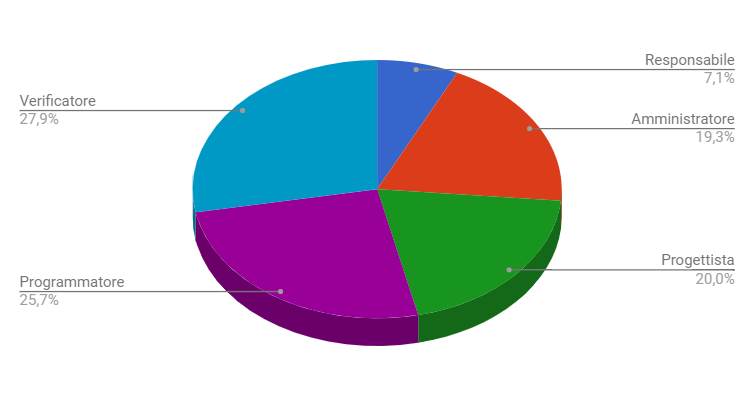
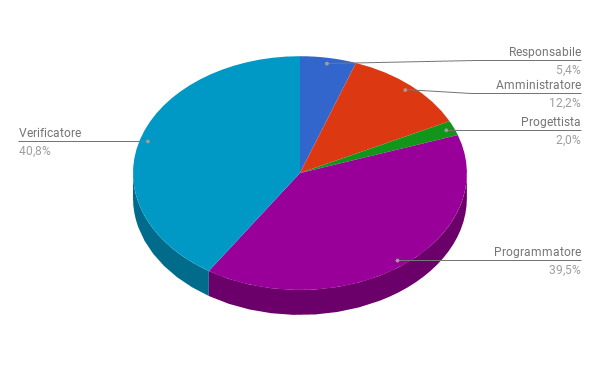
fine consuntivo/preventivo a finire

Changed region(s): [[0.0, 0.1186, 0.99, 0.8598], [0.36, 0.8005, 0.39, 0.8302]]

diff --git a/Esterni/PianoDiProgetto/Preventivo.tex b/Esterni/PianoDiProgetto/Preventivo.tex
@@ -112,13 +112,13 @@ Nel periodo di Analisi la distribuzione delle ore tra i differenti ruoli è la s
 				>{\centering\arraybackslash}m{0.25\linewidth}  }
 			\tableHeaderStyle
 			\textbf{Ruolo} & \textbf{Ore} & \textbf{Costo in \euro} \\
-			\resp & 5 & 120,00 \\
+			\resp & 5 & 150,00 \\
 			\amme & 9 & 180,00 \\
 			\alista & 16 & 400,00 \\
 			\proga &  &  \\
 			\progre &  &  \\
 			\vere & 19 & 285,00 \\
-			\textbf{Totale} & \textbf{49} & \textbf{985,00} \\
+			\textbf{Totale} & \textbf{49} & \textbf{1015,00} \\
 		\end{tabu}
 		\caption{Prospetto economico del periodo di Consolidamento dei requisiti}
 		\vspace{-1em}
@@ -202,12 +202,12 @@ Nel periodo di Progettazione di dettaglio e codifica la distribuzione oraria è 
 			}
 			\tableHeaderStyle			
 			\textbf{Nome} & \textbf{Re} & \textbf{Ad} & \textbf{An} & \textbf{Pj} & \textbf{Pr} & \textbf{Ve} & \textbf{Totale} \\
-			\Davide 	&  &  &  & 17 & 20 & 15 & 52 \\
+			\Davide 	&  & 5 &  & 17 & 20 & 10 & 52 \\
 			\Elena 		&  &  & 4 & 18 & 20 & 10 & 52 \\
 			\Gianluca 	&  & 8 &  & 16 & 18 & 10 & 52 \\
 			\Mirco		& 8 &  &  & 16 & 18 & 10 & 52 \\
 			\Parwinder	&  &  &  & 24 & 18 & 10 & 52 \\
-			\Riccardo 	&  &  & 5 & 16 & 20 & 11 & 52 \\
+			\Riccardo 	&  &  & 5 & 16 & 21 & 10 & 52 \\
 			\Valentina	& 3 & 2 &  & 27 & 20 &  & 52 \\
 		\end{tabu}
 		\caption{Distribuzione oraria del periodo di Progettazione in dettaglio e codifica}
@@ -229,12 +229,12 @@ Nel periodo di Progettazione di dettaglio e codifica la distribuzione delle ore 
 			\tableHeaderStyle
 			\textbf{Ruolo} & \textbf{Ore} & \textbf{Costo in \euro} \\
 			\resp & 11 & 330,00 \\
-			\amme & 10 & 200,00 \\
+			\amme & 15 & 300,00 \\
 			\alista & 9 & 225,00 \\
 			\proga & 134 & 2.948,00 \\
-			\progre & 134 & 2.010,00 \\
-			\vere & 66 & 990,00 \\
-			\textbf{Totale} & \textbf{364} & \textbf{6.703,00} \\
+			\progre & 135 & 2.025,00 \\
+			\vere & 60 & 900,00 \\
+			\textbf{Totale} & \textbf{364} & \textbf{6.728,00} \\
 		\end{tabu}
 		\caption{Prospetto economico del periodo di Progettazione di dettaglio e codifica}
 		\vspace{-1em}
@@ -260,13 +260,13 @@ Nel periodo di \citGloss{validazione} e collaudo la distribuzione oraria è la s
 			}
 			\tableHeaderStyle			
 			\textbf{Nome} & \textbf{Re} & \textbf{Ad} & \textbf{An} & \textbf{Pj} & \textbf{Pr} & \textbf{Ve} & \textbf{Totale} \\
-			\Davide 	&  &  &  & 8 & 6 & 6 & 20 \\
-			\Elena 		&  & 8 &  &  & 6 & 6 & 20 \\
-			\Gianluca 	& 10 &  &  & 6 & 4 &  & 20 \\
-			\Mirco		&  & 8 &  &  & 4 & 8 & 20 \\
-			\Parwinder	&  & 7 &  &  & 4 & 9 & 20 \\
-			\Riccardo 	&  &  &  & 8 & 6 & 6 & 20 \\
-			\Valentina	&  & 4 &  & 6 & 6 & 4 & 20 \\
+			\Davide 	&  &  &  &  & 10 & 11 & 21 \\
+			\Elena 		&  & 8 &  &  & 6 & 7 & 21 \\
+			\Gianluca 	& 8 &  &  & 3 & 6 & 4 & 21 \\
+			\Mirco		&  & 5 &  &  & 8 & 8 & 21 \\
+			\Parwinder	&  & 5 &  &  & 8 & 8 & 21 \\
+			\Riccardo 	&  &  &  &  & 10 & 11 & 21 \\
+			\Valentina	&  &  &  &  & 10 & 11 & 21 \\
 		\end{tabu}
 		\caption{Distribuzione oraria del periodo di Validazione e collaudo}
 		\vspace{-1em}
@@ -286,13 +286,13 @@ Nel periodo di \citGloss{validazione} e collaudo la distribuzione delle ore tra 
 				>{\centering\arraybackslash}m{0.25\linewidth}  }
 			\tableHeaderStyle
 			\textbf{Ruolo} & \textbf{Ore} & \textbf{Costo in \euro} \\
-			\resp & 10 & 300,00 \\
-			\amme & 27 & 540,00 \\
+			\resp & 8 & 240,00 \\
+			\amme & 18 & 360,00 \\
 			\alista &  &  \\
-			\proga & 28 & 616,00 \\
-			\progre & 36 & 540,00 \\
-			\vere & 39 & 585,00 \\
-			\textbf{Totale} & \textbf{140} & \textbf{2.581,00} \\
+			\proga & 3 & 66,00 \\
+			\progre & 58 & 870,00 \\
+			\vere & 60 & 900,00 \\
+			\textbf{Totale} & \textbf{147} & \textbf{2.436,00} \\
 		\end{tabu}
 		\caption{Prospetto economico del periodo di Validazione e collaudo}
 		\vspace{-1em}
@@ -318,13 +318,13 @@ Di seguito sono riportate il totale delle sole ore rendicontate nel preventivo a
 			}
 			\tableHeaderStyle			
 			\textbf{Nome} & \textbf{Re} & \textbf{Ad} & \textbf{An} & \textbf{Pj} & \textbf{Pr} & \textbf{Ve} & \textbf{Totale} \\
-			\Davide 	& 8 &  & 10 & 25 & 32 & 27 & 102 \\
-			\Elena 		&  & 8 & 4 & 32 & 32 & 26 & 102 \\
-			\Gianluca 	& 10 & 13 &  & 22 & 32 & 25 & 102 \\
-			\Mirco		& 8 & 8 &  & 28 & 32 & 26 & 102 \\
-			\Parwinder	&  & 7 &  & 30 & 32 & 33 & 102 \\
-			\Riccardo 	& 5 &  & 4 & 33 & 32 & 28 & 102 \\
-			\Valentina	& 5 & 9 & 10 & 33 & 32 & 13 & 102 \\
+			\Davide 	& 8 & 5 & 10 & 17 & 36 & 27 & 103 \\
+			\Elena 		&  & 8 & 4 & 32 & 32 & 27 & 103 \\
+			\Gianluca 	& 8 & 13 &  & 19 & 34 & 29 & 103 \\
+			\Mirco		& 8 & 5 &  & 28 & 36 & 26 & 103 \\
+			\Parwinder	&  & 5 &  & 30 & 36 & 32 & 103 \\
+			\Riccardo 	& 5 &  & 5 & 25 & 37 & 31 & 103 \\
+			\Valentina	& 3 & 7 & 10 & 27 & 36 & 20 & 103 \\
 		\end{tabu}
 		\caption{Distribuzione oraria totale delle ore rendicontate}
 		\vspace{-1em}
@@ -344,13 +344,13 @@ Di seguite è riportato il totale delle ore dei diversi ruoli del progetto conta
 				>{\centering\arraybackslash}m{0.25\linewidth}  }
 			\tableHeaderStyle
 			\textbf{Ruolo} & \textbf{Ore} & \textbf{Costo in \euro} \\
-			\resp & 36 & 1.080,00 \\
-			\amme & 45 & 900,00 \\
-			\alista & 28 & 700,00 \\
-			\proga & 203 & 4.466,00 \\
-			\progre & 224 & 3.360,00 \\
-			\vere & 178 & 2670,00 \\
-			\textbf{Totale} & \textbf{714} & \textbf{13.176,00} \\
+			\resp & 32 & 960,00 \\
+			\amme & 43 & 860,00 \\
+			\alista & 29 & 725,00 \\
+			\proga & 178 & 3916,00 \\
+			\progre & 247 & 3.705,00 \\
+			\vere & 192 & 2880,00 \\
+			\textbf{Totale} & \textbf{714} & \textbf{13.046,00} \\
 		\end{tabu}
 		\caption{Prospetto economico del totale delle ore rendicontate}
 		\vspace{-1em}
@@ -376,20 +376,20 @@ Di seguito sono riportate il totale delle ore del progetto contando le ore di in
 			}
 			\tableHeaderStyle			
 			\textbf{Nome} & \textbf{Re} & \textbf{Ad} & \textbf{An} & \textbf{Pj} & \textbf{Pr} & \textbf{Ve} & \textbf{Totale} \\
-			\Davide 	& 8 & 14 & 18 & 25 & 32 & 37 & 134 \\
-			\Elena 		& 10 & 16 & 9 & 32 & 32 & 35 & 134 \\
-			\Gianluca 	& 10 & 15 & 15 & 22 & 32 & 40 & 134 \\
-			\Mirco		& 8 & 16 & 19 & 28 & 32 & 31 & 134 \\
-			\Parwinder	& 8 & 15 & 10 & 30 & 32 & 39 & 134 \\
-			\Riccardo 	& 10 & 13 & 8 & 33 & 32 & 38 & 134 \\
-			\Valentina	& 10 & 17 & 14 & 33 & 32 & 28 & 134 \\
+			\Davide 	& 8 & 19 & 18 & 17 & 36 & 37 & 135 \\
+			\Elena 		& 10 & 16 & 9 & 32 & 32 & 36 & 135 \\
+			\Gianluca 	& 8 & 15 & 15 & 19 & 34 & 44 & 135 \\
+			\Mirco		& 8 & 13 & 19 & 28 & 36 & 31 & 135 \\
+			\Parwinder	& 8 & 13 & 10 & 30 & 36 & 38 & 135 \\
+			\Riccardo 	& 10 & 13 & 9 & 25 & 37 & 41 & 135 \\
+			\Valentina	& 8 & 15 & 14 & 27 & 36 & 35 & 135 \\
 		\end{tabu}
 		\caption{Distribuzione oraria totale delle ore di investimento e rendicontate}
 		\vspace{-1em}
 	\end{center}
 \end{table}
 Il seguente grafico dà una rappresentazione visiva della suddivisione oraria:
-\nImg{images/prospettoOrario/totale.png}{Grafico suddivisione oraria totale delle ore di investimento e rendicontate}{11} 
+\nImg{images/prospettoOrario/totInv.png}{Grafico suddivisione oraria totale delle ore di investimento e rendicontate}{11} 
 \clearpage
 \subsection{Totale del prospetto economico con investimento}
 Di seguito è riportato il totale delle ore dei diversi ruoli del progetto contando le ore di investimento e delle ore rendicontate nel preventivo a carico del \citGloss{committente}:
@@ -402,13 +402,13 @@ Di seguito è riportato il totale delle ore dei diversi ruoli del progetto conta
 				>{\centering\arraybackslash}m{0.25\linewidth}  }
 			\tableHeaderStyle
 			\textbf{Ruolo} & \textbf{Ore} & \textbf{Costo in \euro} \\
-			\resp & 64 & 1.920,00 \\
-			\amme & 106 & 2.120,00 \\
-			\alista & 93 & 2.325,00 \\
-			\proga & 203 & 4.466,00 \\
-			\progre & 224 & 3.360,00 \\
-			\vere & 248 & 3.720,00 \\
-			\textbf{Totale} & \textbf{938} & \textbf{17.911,00} \\
+			\resp & 60 & 1.800,00 \\
+			\amme & 104 & 2.080,00 \\
+			\alista & 94 & 2.350,00 \\
+			\proga & 178 & 3916,00 \\
+			\progre & 247 & 3.705,00 \\
+			\vere & 262 & 3.930,00 \\
+			\textbf{Totale} & \textbf{938} & \textbf{17.781,00} \\
 		\end{tabu}
 		\caption{Prospetto economico del totale delle ore di investimento e rendicontate}
 		\vspace{-1em}

diff --git a/Esterni/PianoDiProgetto/ConsuntivoEPreventivoAFinire.tex b/Esterni/PianoDiProgetto/ConsuntivoEPreventivoAFinire.tex
@@ -216,15 +216,15 @@ La seguente tabella presenta il numero di ore di lavoro utilizzate dal gruppo \g
 			}
 			\tableHeaderStyle			
 			\textbf{Nome} & \textbf{Re} & \textbf{Ad} & \textbf{An} & \textbf{Pj} & \textbf{Pr} & \textbf{Ve} & \textbf{Totale} \\
-			\Davide & 8 &  & 10 (+2) &  & 6 (-2) & 6 & 30 \\
-			\Elena &  &  &  & 14 (+4) & 6 (-4) & 10 & 30\\
-			\Gianluca &  & 5 &  &  & 10 (-5) & 15 (+5) & 30 \\
-			\Mirco &  &  &  & 12 & 10 (+2) & 8 (-2) & 30 \\
-			\Parwinder &  &  &  & 6 & 10 (-4) & 14 (+4) & 30 \\
-			\Riccardo & 5 &  &  & 9 (-1) & 6 & 10 (+1) & 30 \\
-			\Valentina &  & 5 & 10 (+2) &  & 6 (-2) & 9 & 30\\
+			\Davide 	&  & 5 (-1) &  & 17 (-1) & 20 (+2) & 10 & 52 \\
+			\Elena 		&  &  & 4 & 18 & 20 & 10 & 52 \\
+			\Gianluca 	&  & 8 (-1) &  & 16 (-1) & 18 (+2) & 10 & 52 \\
+			\Mirco		& 8 &  &  & 16 (-1) & 18 (+1) & 10 & 52 \\
+			\Parwinder	&  &  &  & 24 & 18 & 10 & 52 \\
+			\Riccardo 	&  &  & 5 & 16 & 21 & 10 & 52 \\
+			\Valentina	& 3 & 2 (-2) &  & 27 & 20 (+2) &  & 52 \\
 		\end{tabu}
-		\caption{Resoconto orario - Consuntivo Progettazione della base tecnologica}
+		\caption{Resoconto orario - Consuntivo Progettazione di dettaglio e codifica}
 		\vspace{-1em}
 	\end{center}
 \end{table}	
@@ -238,18 +238,18 @@ La seguente tabella riassume i dati del consuntivo per il periodo di Progettazio
 				>{\centering\arraybackslash}m{0.25\linewidth}  }
 			\tableHeaderStyle
 			\textbf{Ruolo} & \textbf{Ore} & \textbf{Costo in \euro} \\
-			\resp & 13 & 390,00  \\
-			\amme & 10 & 200,00\\
-			\alista & 20 (+4) & 500,00 (+100,00)\\
-			\proga & 41 (+5) & 902,00 (+110,00) \\
-			\progre & 54 (-19) & 810,00 (-285,00) \\
-			\vere & 72 (+10) & 1080,00 (+150,00) \\
+			\resp & 11 & 330,00 \\
+			\amme & 15 (-4) & 300,00 (-80) \\
+			\alista & 9 & 225,00 \\
+			\proga & 134 (-3) & 2.948,00 (-66) \\
+			\progre & 135 (+7) & 2.025,00 (+105) \\
+			\vere & 60 & 900,00 \\
 			\hline
-			\textbf{Totale} & \textbf{210} & \textbf{3.807,00} \\
-			\textbf{Totale preventivato} & \textbf{210} & \textbf{3.882,00} \\
-			\textbf{Differenza} & \textbf{0 ore} & \textbf{+75,00\euro} \\
+			\textbf{Totale} & \textbf{364} & \textbf{6.769,00} \\
+			\textbf{Totale preventivato} & \textbf{364} & \textbf{6.728,00} \\
+			\textbf{Differenza} & \textbf{0 ore} & \textbf{-41,00\euro} \\
 		\end{tabu}
-		\caption{Resoconto economico - Consuntivo Progettazione della base tecnologica}
+		\caption{Resoconto economico - Consuntivo Progettazione di dettaglio e codifica}
 		\vspace{-1em}
 	\end{center}
 \end{table}
@@ -259,6 +259,7 @@ La seguente tabella riassume i dati del consuntivo per il periodo di Progettazio
 Non si è incorsi in ritardi durante l'esecuzione delle varie attività previste.
 
 \subsection{Conclusione}
+Durante il periodo di Progettazione di dettaglio e codifica, il numero di ore preventivate si è dimostrato corretto. \'E stato necessario però ridistribuire l'orario a ruoli diversi, poiché le ore preventivate necessarie alla programmazione in questo periodo sono state dedicate al ruolo di amministratore per la correzione dei documenti, e al ruolo di progettista, affinché potesse essere creata un'architettura solida per il progetto, così da poter avere un periodo di progettazione più corto ed efficace. Il risultato complessivo del periodo è di 0 ore lavorative in meno rispetto al previsto e di una spesa di 41,00\euro{} in più rispetto al previsto, che non porta però a uno sforamento del budget preventivato.
 
 \section{Periodo di Validazione e collaudo}
 Questa sezione verrà descritta alla fine di questo periodo.
@@ -275,9 +276,9 @@ La seguente tabella presenta l'attuale preventivo a finire. Se il valore del con
 			\tableHeaderStyle
 			\textbf{Periodo} & \textbf{Preventivo \euro} & \textbf{Consuntivo \euro} \\
 			Progettazione della base tecnologica & 3.882,00 & 3.807,00 \\
-			Progettazione di dettaglio e codifica & 6.713,00 & - \\
-			Validazione e collaudo & 2.581,00 & - \\
-			\textbf{Totale rendicontato} & \textbf{13.176,00} & \textbf{13.101,00} \\
+			Progettazione di dettaglio e codifica & 6.728,00 & 6.769,00 \\
+			Validazione e collaudo & 2.436,00 & - \\
+			\textbf{Totale rendicontato} & \textbf{13.046,00} & \textbf{13.012,00} \\
 			
 		\end{tabu}
 	\end{center}
